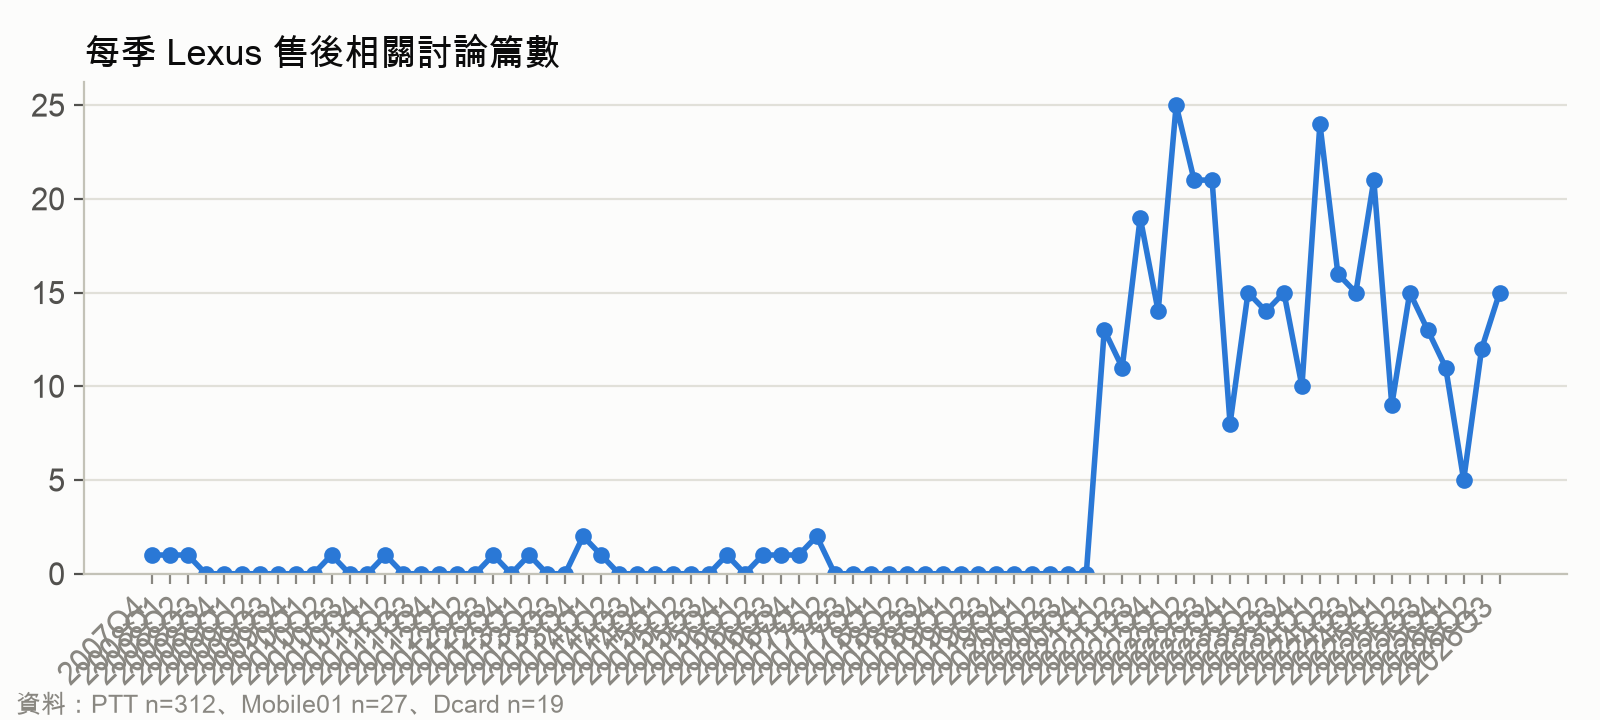
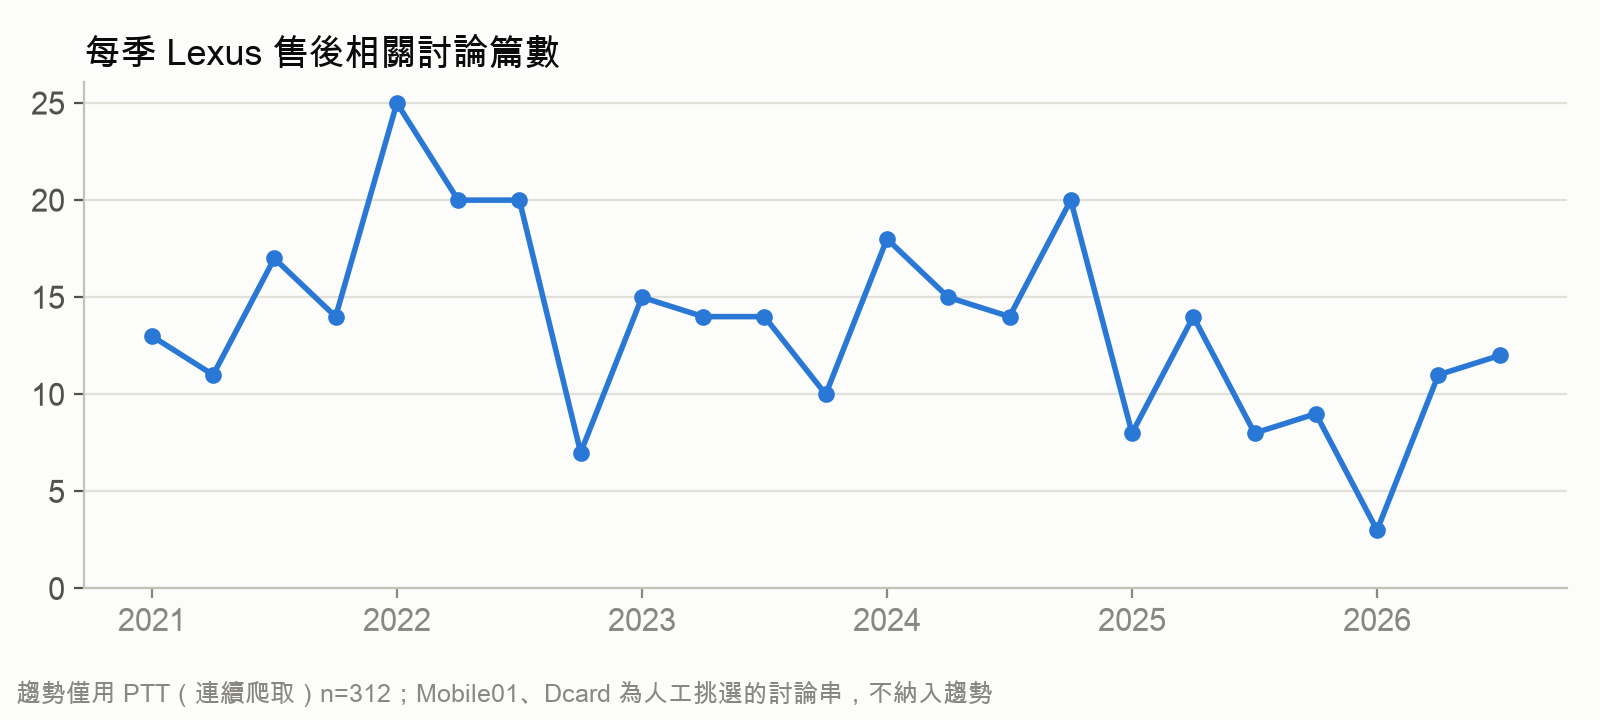
fix(analysis): PTT-only trend chart, per-source periods and comparison; record no-relabel decision
Claude-Session: https://claude.ai/code/session_01TSKhWSoPSxc25psS7ffnUT

Changed region(s): [[0.0, 0.1222, 0.9688, 1.0], [0.0312, 0.6417, 0.0625, 0.7028]]

diff --git a/lexus_kit/analyze.py b/lexus_kit/analyze.py
@@ -149,18 +149,43 @@ def main():
     rel = df[df["relevant"] == True]
     owners = rel[rel["owner"]]
     lines = ["# Lexus 售後輿情分析重點", ""]
+    sources = df["source"].fillna("來源不明").replace("", "來源不明")
+    source_counts = sources.value_counts()
+    periods = []
+    for name in source_counts.index:
+        dates = df.loc[sources == name, "published"].dropna()
+        if not dates.empty:
+            periods.append(f"{name} {dates.min():%Y-%m-%d} 至 {dates.max():%Y-%m-%d}")
+    source_comparison = ["## 各來源比較"]
+    for name in source_counts.index:
+        source_rows = df[sources == name]
+        source_rel = rel[sources.loc[rel.index] == name]
+        source_owners = owners[sources.loc[owners.index] == name]
+        at_risk = int(source_owners["at_risk"].sum())
+        owner_count = len(source_owners)
+        insufficient = "（樣本不足，不下結論）" if owner_count < MIN_N else ""
+        source_comparison.append(
+            f"- {name}：標註 {len(source_rows)} 篇；relevant {len(source_rel)} 篇；"
+            f"車主發文 {owner_count} 篇；車主中猶豫或已轉外廠 {pct(at_risk, owner_count)}%"
+            f"（{at_risk}/{owner_count}）{insufficient}"
+        )
+    source_comparison += [
+        "- 註：Mobile01、Dcard 為人工挑選的討論串，比例不代表該平台整體；跨來源合併數字以 PTT 為主體。",
+        "",
+    ]
 
     # ---- 0. 總覽 ----
     lines += [
         "## 資料總覽",
         f"- 標註文章總數：{len(df)}",
-        f"- 資料來源：" + "、".join(f"{name} {count} 篇" for name, count in df["source"].fillna("來源不明").replace("", "來源不明").value_counts().items()),
+        f"- 資料來源：" + "、".join(f"{name} {count} 篇" for name, count in source_counts.items()),
         f"- 實質討論 Lexus 售後（relevant）：{len(rel)} 篇（{pct(len(rel), len(df))}%）",
         f"- 其中發文者為車主：{len(owners)} 篇",
         f"- 涉及經銷商信任問題：{int(df['dealer_trust_issue'].fillna(False).sum())} 篇",
-        f"- 資料期間：{df['published'].min():%Y-%m-%d} 至 {df['published'].max():%Y-%m-%d}",
+        "- 資料期間：" + "；".join(periods),
         "",
     ]
+    lines += source_comparison
 
     # ---- 1. 不滿類別：原廠 vs 外廠 ----
     pain = []
@@ -280,10 +305,10 @@ def main():
         lines.extend(["## 購車方式與流失傾向"] + [f"- {r['組別']}：{r['流失傾向比例%']}%（{int(r['猶豫或已轉外廠'])}/{int(r['車主篇數'])}）" for _, r in pt.iterrows()] + [""])
 
     # ---- 6. 每月趨勢 ----
-    m = rel.dropna(subset=["published"]).copy()
+    m = rel[(rel["source"] == "PTT") & rel["published"].notna()].copy()
     m["月份"] = m["published"].dt.to_period("M").astype(str)
     t6 = m.groupby("月份").agg(相關篇數=("id", "size"), 負面篇數=("sentiment", lambda s: (s == "負面").sum()))
-    trust = df.dropna(subset=["published"]).copy()
+    trust = df[(df["source"] == "PTT") & df["published"].notna()].copy()
     trust["月份"] = trust["published"].dt.to_period("M").astype(str)
     t6 = t6.join(trust[trust["dealer_trust_issue"] == True].groupby("月份").size().rename("經銷商信任篇數"), how="outer").fillna(0).astype(int)
     t6["負面比例%"] = (100 * t6["負面篇數"] / t6["相關篇數"].where(t6["相關篇數"] > 0)).astype(float).round(1)
@@ -293,14 +318,17 @@ def main():
         q.index = pd.PeriodIndex(q.index, freq="M")
         q = q.resample("Q").sum(numeric_only=True)
         fig, ax = plt.subplots(figsize=(8, 3.6))
-        ax.plot(q.index.astype(str), q["相關篇數"], color=BLUE, linewidth=2, marker="o", markersize=5)
+        ax.plot(range(len(q)), q["相關篇數"], color=BLUE, linewidth=2, marker="o", markersize=5)
+        year_ticks = [(i, str(period.year)) for i, period in enumerate(q.index) if period.quarter == 1]
+        ax.set_xticks([i for i, _ in year_ticks], [year for _, year in year_ticks])
         ax.set_title("每季 Lexus 售後相關討論篇數", loc="left", color=INK, fontsize=13, fontweight="bold")
         ax.yaxis.grid(True, color=GRID, linewidth=0.8)
         ax.set_axisbelow(True)
         ax.set_ylim(bottom=0)
-        plt.setp(ax.get_xticklabels(), rotation=45, ha="right")
-        fig.text(0.01, 0.01, source_note(m), color=MUTED, fontsize=9)
-        fig.tight_layout()
+        fig.text(0.01, 0.025,
+                 f"趨勢僅用 PTT（連續爬取）n={len(m)}；Mobile01、Dcard 為人工挑選的討論串，不納入趨勢",
+                 color=MUTED, fontsize=9)
+        fig.tight_layout(rect=(0, 0.07, 1, 1))
         fig.savefig(O("chart_4_quarterly.png"), dpi=200)
         plt.close(fig)
 

diff --git a/tasks/T-106.result.md b/tasks/T-106.result.md
@@ -1,0 +1,138 @@
+# T-106 結果
+
+## 變更檔案
+
+- `lexus_kit/analyze.py`：每月趨勢與季度圖只統計 PTT；圖的 X 軸每年第 1 季標年份並加入來源註腳；summary 改為逐來源資料期間，新增各來源比較與樣本不足提示。
+- `lexus_kit/out/06_monthly.csv`、`lexus_kit/out/chart_4_quarterly.png`、`lexus_kit/out/summary.md`：由 `analyze.py` 重產。
+- `tasks/T-106.result.md`：本驗收紀錄。
+
+## 驗收指令與完整輸出
+
+工作目錄：`lexus_kit/`。
+
+```bash
+cp -r out /tmp/t106_before
+```
+
+輸出：無，exit 0。
+
+```bash
+.venv/bin/python analyze.py
+```
+
+```text
+/Users/ino/.matplotlib is not a writable directory
+Matplotlib created a temporary cache directory at /var/folders/12/zmwhx62x1_5fqjlbsm9g87100000gn/T/matplotlib-6fomv9si because there was an issue with the default path (/Users/ino/.matplotlib); it is highly recommended to set the MPLCONFIGDIR environment variable to a writable directory, in particular to speed up the import of Matplotlib and to better support multiprocessing.
+Matplotlib is building the font cache; this may take a moment.
+# Lexus 售後輿情分析重點
+
+## 資料總覽
+- 標註文章總數：1640
+- 資料來源：PTT 1589 篇、Mobile01 29 篇、Dcard 22 篇
+- 實質討論 Lexus 售後（relevant）：358 篇（21.8%）
+- 其中發文者為車主：217 篇
+- 涉及經銷商信任問題：128 篇
+- 資料期間：PTT 2021-01-02 至 2026-10-01；Mobile01 2007-10-24 至 2025-11-06；Dcard 2022-06-17 至 2026-08-20
+
+## 各來源比較
+- PTT：標註 1589 篇；relevant 312 篇；車主發文 183 篇；車主中猶豫或已轉外廠 23.5%（43/183）
+- Mobile01：標註 29 篇；relevant 27 篇；車主發文 22 篇；車主中猶豫或已轉外廠 63.6%（14/22）
+- Dcard：標註 22 篇；relevant 19 篇；車主發文 12 篇；車主中猶豫或已轉外廠 33.3%（4/12）
+- 註：Mobile01、Dcard 為人工挑選的討論串，比例不代表該平台整體；跨來源合併數字以 PTT 為主體。
+
+## 最常見的不滿（全部相關文章）
+- 價格與收費：121 篇
+- 維修品質：62 篇
+- 其他：48 篇
+- 等待與預約：21 篇
+- 保固與權益：21 篇
+- 服務態度：21 篇
+- 經驗發生地點：原廠 226 篇、不明 115 篇、外廠 11 篇、兩者都有 6 篇
+
+## 流失驅動因素（車主發文）
+- 車主發文中，猶豫或已轉外廠的比例：28.1%（61/217）
+- 保固與權益：56.2% 伴隨流失傾向（9/16），為整體的 2.0 倍
+- 價格與收費：52.3% 伴隨流失傾向（45/86），為整體的 1.86 倍
+- 服務態度：50.0% 伴隨流失傾向（9/18），為整體的 1.78 倍
+- 零件與待料：44.4% 伴隨流失傾向（4/9），為整體的 1.58 倍
+- 信任與誠信：42.9% 伴隨流失傾向（3/7），為整體的 1.52 倍
+- 註：提及少於 5 篇的類別不下結論
+
+## 推文中的車主心聲
+- 推文自述「已改去外廠」：109 則；自述「一直回原廠」：145 則
+- 推文中離開原廠的原因：價格與收費 33、其他 22、維修品質 5、服務態度 3、信任與誠信 1
+
+## 車齡與流失傾向（車主發文，僅列車齡可判斷者）
+- 0–3 年：16.2%（11/68）
+- 3–5 年：21.1%（4/19）
+- 5–10 年：30.6%（11/36）
+- 10 年以上：54.5%（6/11）
+- 不明：34.9%（29/83）
+
+## 購車方式與流失傾向
+- 新車：15.2%（14/92）
+- 二手：34.2%（13/38）
+
+## 下一步
+- 打開 08_persona_candidates.csv，挑出篇數夠多、流失傾向高的組合，作為 Persona 的基礎
+- 打開 07_quotes.csv，為每個 Persona 挑 1–2 句代表性原文
+- 樣本數小於 5 的數字只當參考，不要在簡報下結論
+
+全部結果在 out/ 資料夾
+```
+
+exit 0。
+
+```bash
+for f in 01_pain_by_location 02_churn_drivers 03_comment_voices 04_risk_by_age 05_risk_by_segment 07_quotes 08_persona_candidates; do cmp out/$f.csv /tmp/t106_before/$f.csv && echo "$f same"; done
+```
+
+```text
+01_pain_by_location same
+02_churn_drivers same
+03_comment_voices same
+04_risk_by_age same
+05_risk_by_segment same
+07_quotes same
+08_persona_candidates same
+```
+
+exit 0。
+
+```bash
+diff /tmp/t106_before/summary.md out/summary.md
+```
+
+```diff
+9c9
+< - 資料期間：2007-10-24 至 2026-10-01
+---
+> - 資料期間：PTT 2021-01-02 至 2026-10-01；Mobile01 2007-10-24 至 2025-11-06；Dcard 2022-06-17 至 2026-08-20
+10a11,16
+> ## 各來源比較
+> - PTT：標註 1589 篇；relevant 312 篇；車主發文 183 篇；車主中猶豫或已轉外廠 23.5%（43/183）
+> - Mobile01：標註 29 篇；relevant 27 篇；車主發文 22 篇；車主中猶豫或已轉外廠 63.6%（14/22）
+> - Dcard：標註 22 篇；relevant 19 篇；車主發文 12 篇；車主中猶豫或已轉外廠 33.3%（4/12）
+> - 註：Mobile01、Dcard 為人工挑選的討論串，比例不代表該平台整體；跨來源合併數字以 PTT 為主體。
+>
+```
+
+exit 1（`diff` 發現預期差異）；差異僅涉及資料期間與各來源比較。
+
+```bash
+.venv/bin/python -c "import pandas as pd; m=pd.read_csv('out/06_monthly.csv', encoding='utf-8-sig'); print(m.iloc[:,0].min(), m.iloc[:,0].max(), m['相關篇數'].sum())"
+```
+
+```text
+2021-01 2026-09 312
+```
+
+exit 0。最早月份不早於 2021-01，相關篇數總和等於 PTT relevant 312 篇。
+
+已開啟 `out/chart_4_quarterly.png` 檢視：X 軸依序只顯示 2021、2022、2023、2024、2025、2026，標籤沒有重疊；註腳完整可見。
+
+已刪除 `/tmp/t106_before`（使用 `.venv/bin/python -c "import shutil; shutil.rmtree('/tmp/t106_before')"`，無輸出，exit 0）。
+
+## 未完成或疑慮
+
+無。Matplotlib 因使用者目錄不可寫而建立暫存字型快取，未影響輸出。

diff --git a/lexus_kit/out/label_quality.md b/lexus_kit/out/label_quality.md
@@ -75,3 +75,8 @@ Gemini 與人工至少一欄不同的共 17 篇（同一篇可能屬於多類）
 - A、B 兩類佔多數，會讓「相關篇數」與「正面情緒」偏高。few-shot 範例應優先放：一篇「只有一句售後」的購車文（答案：不相關、中立）、一篇推文稱讚 Lexus 服務的他牌文章（答案：情緒以發文者對 Lexus 售後為準）。
 - D 類的「詢問外廠＝猶豫」已寫在規則裡但仍出錯，範例要放一篇「接手二手車、詢問外廠」的文章（答案：猶豫）。
 - Codex 在情緒欄明顯優於 Gemini（92% vs 83%，n=60；分歧裁決 7:2），代表情緒錯誤主要來自模型判斷而非規則不清，換較強模型可能改善。
+
+## 階段 3 決定：不做第二段重標（2026-10-10，Ino 決定）
+- 原計畫用較強模型＋few-shot（`data/fewshot.md`）重標 400 篇（`data/v2_ids.txt`）。Gemini 帳號為免費方案：Pro 額度 0、gemini-3.8-flash 每天 20 次，跑不完。
+- 決定：沿用 v1（gemini-3.5-flash-lite）標註，在簡報限制頁寫明上方的一致率（是否相關 88%、情緒 83%、對原廠立場 90%，各 n=60），以及錯誤方向（相關篇數與正面情緒偏高）。
+- 工具已就緒（`label_with_gemini.py --model --fewshot --ids`、`check_label_quality.py compare`），若之後開啟付費方案可直接重跑。

diff --git a/lexus_kit/out/summary.md b/lexus_kit/out/summary.md
@@ -6,7 +6,13 @@
 - 實質討論 Lexus 售後（relevant）：358 篇（21.8%）
 - 其中發文者為車主：217 篇
 - 涉及經銷商信任問題：128 篇
-- 資料期間：2007-10-24 至 2026-10-01
+- 資料期間：PTT 2021-01-02 至 2026-10-01；Mobile01 2007-10-24 至 2025-11-06；Dcard 2022-06-17 至 2026-08-20
+
+## 各來源比較
+- PTT：標註 1589 篇；relevant 312 篇；車主發文 183 篇；車主中猶豫或已轉外廠 23.5%（43/183）
+- Mobile01：標註 29 篇；relevant 27 篇；車主發文 22 篇；車主中猶豫或已轉外廠 63.6%（14/22）
+- Dcard：標註 22 篇；relevant 19 篇；車主發文 12 篇；車主中猶豫或已轉外廠 33.3%（4/12）
+- 註：Mobile01、Dcard 為人工挑選的討論串，比例不代表該平台整體；跨來源合併數字以 PTT 為主體。
 
 ## 最常見的不滿（全部相關文章）
 - 價格與收費：121 篇
